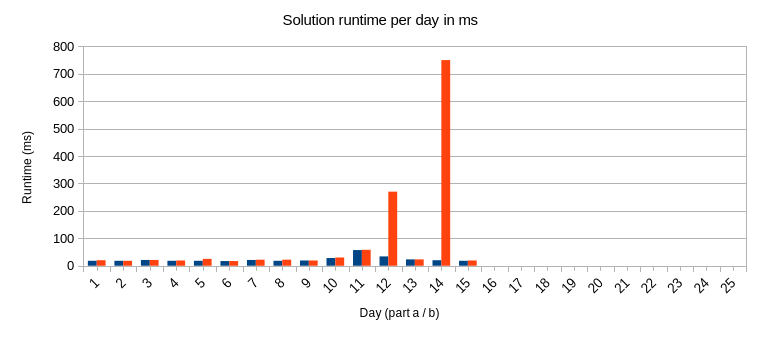
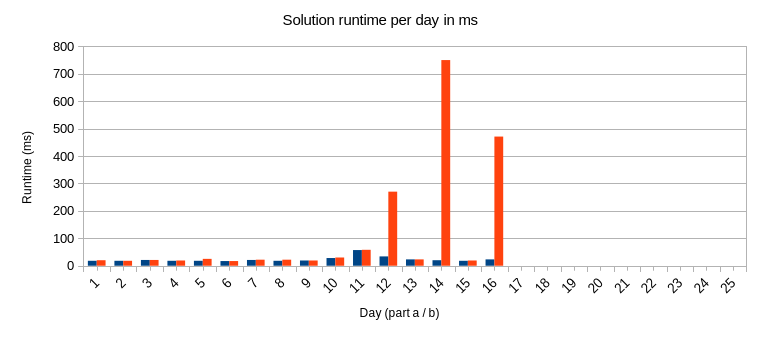
cleanup 16

Changed region(s): [[0.6339, 0.3824, 0.664, 0.7941]]

diff --git a/16/beams.ts b/16/beams.ts
@@ -1,20 +1,33 @@
 export enum Direction {
-  North,
-  West,
-  South,
-  East,
+  North = "North",
+  East = "East",
+  South = "South",
+  West = "West",
 }
 
-function getDirectionCoords(direction: Direction) {
+const SLASHMAP: Record<Direction, Direction> = {
+  "North": Direction.East,
+  "East": Direction.North,
+  "South": Direction.West,
+  "West": Direction.South,
+};
+const BACKSLASHMAP: Record<Direction, Direction> = {
+  "North": Direction.West,
+  "East": Direction.South,
+  "South": Direction.East,
+  "West": Direction.North,
+};
+
+function getDelta(direction: Direction) {
   switch (direction) {
     case Direction.North:
       return [-1, 0];
-    case Direction.West:
-      return [0, -1];
-    case Direction.South:
-      return [1, 0];
     case Direction.East:
       return [0, 1];
+    case Direction.South:
+      return [1, 0];
+    case Direction.West:
+      return [0, -1];
   }
 }
 
@@ -23,75 +36,41 @@ export function findEnergizedTiles(
   y: number,
   x: number,
   direction: Direction,
-): number {
+) {
   const energizedTileCoords = new Set<string>();
   const uniqueEncounters = new Set<string>();
 
-  function moveBeam(y: number, x: number, direction: Direction) {
+  function moveBeam(y: number, x: number, dir: Direction) {
     if (grid[y] === undefined || grid[y][x] === undefined) return;
 
-    const key = `${y}_${x}_${direction}`;
+    const key = `${y}_${x}_${dir}`;
     if (uniqueEncounters.has(key)) return;
     uniqueEncounters.add(key);
     energizedTileCoords.add(`${y}_${x}`);
 
-    const [dy, dx] = getDirectionCoords(direction);
-    const nextY = y + dy;
-    const nextX = x + dx;
-
     const cell = grid[y][x];
-    switch (cell) {
-      case ".": {
-        moveBeam(nextY, nextX, direction);
-        break;
-      }
-      case "|": {
-        if (direction === Direction.East || direction === Direction.West) {
-          moveBeam(y - 1, x, Direction.North);
-          moveBeam(y + 1, x, Direction.South);
-        } else {
-          moveBeam(nextY, nextX, direction);
-        }
-        break;
-      }
-      case "-": {
-        if (direction === Direction.North || direction === Direction.South) {
-          moveBeam(y, x - 1, Direction.West);
-          moveBeam(y, x + 1, Direction.East);
-        } else {
-          moveBeam(nextY, nextX, direction);
-        }
-        break;
-      }
-      case "/": {
-        if (direction === Direction.North) {
-          moveBeam(y, x + 1, Direction.East);
-        } else if (direction === Direction.East) {
-          moveBeam(y - 1, x, Direction.North);
-        } else if (direction === Direction.South) {
-          moveBeam(y, x - 1, Direction.West);
-        } else if (direction === Direction.West) {
-          moveBeam(y + 1, x, Direction.South);
-        }
-        break;
-      }
-      case "\\": {
-        if (direction === Direction.North) {
-          moveBeam(y, x - 1, Direction.West);
-        } else if (direction === Direction.East) {
-          moveBeam(y + 1, x, Direction.South);
-        } else if (direction === Direction.South) {
-          moveBeam(y, x + 1, Direction.East);
-        } else if (direction === Direction.West) {
-          moveBeam(y - 1, x, Direction.North);
-        }
-        break;
-      }
+    let reflectedDir = dir;
 
-      default: {
-        throw new Error(`Unknown cell type: '${cell}'`);
+    if (cell === "|") {
+      if (dir === "East" || dir === "West") {
+        moveBeam(y - 1, x, Direction.North);
+        moveBeam(y + 1, x, Direction.South);
+        return;
       }
+    } else if (cell === "-") {
+      if (dir === "North" || dir === "South") {
+        moveBeam(y, x - 1, Direction.West);
+        moveBeam(y, x + 1, Direction.East);
+        return;
+      }
+    } else if (cell === "/") {
+      reflectedDir = SLASHMAP[dir];
+    } else if (cell == "\\") {
+      reflectedDir = BACKSLASHMAP[dir];
     }
+
+    const [dy, dx] = getDelta(reflectedDir);
+    moveBeam(y + dy, x + dx, reflectedDir);
   }
 
   moveBeam(y, x, direction);

diff --git a/README.md b/README.md
@@ -62,6 +62,8 @@ Debugging in Visual Studio Code
     detection to prevent doing this a literal billion times.
 15. [**Lens Library**] Creating a simple hashing function & some simple array
     operations (Did day 5 and 15 get swapped..?)
+16. [**The Floor Will Be Lava**] Manouvering a light beam through a grid of
+    lasers with offset mirrors, tricky rotations.
 
 ### 6. Solution runtime
 
